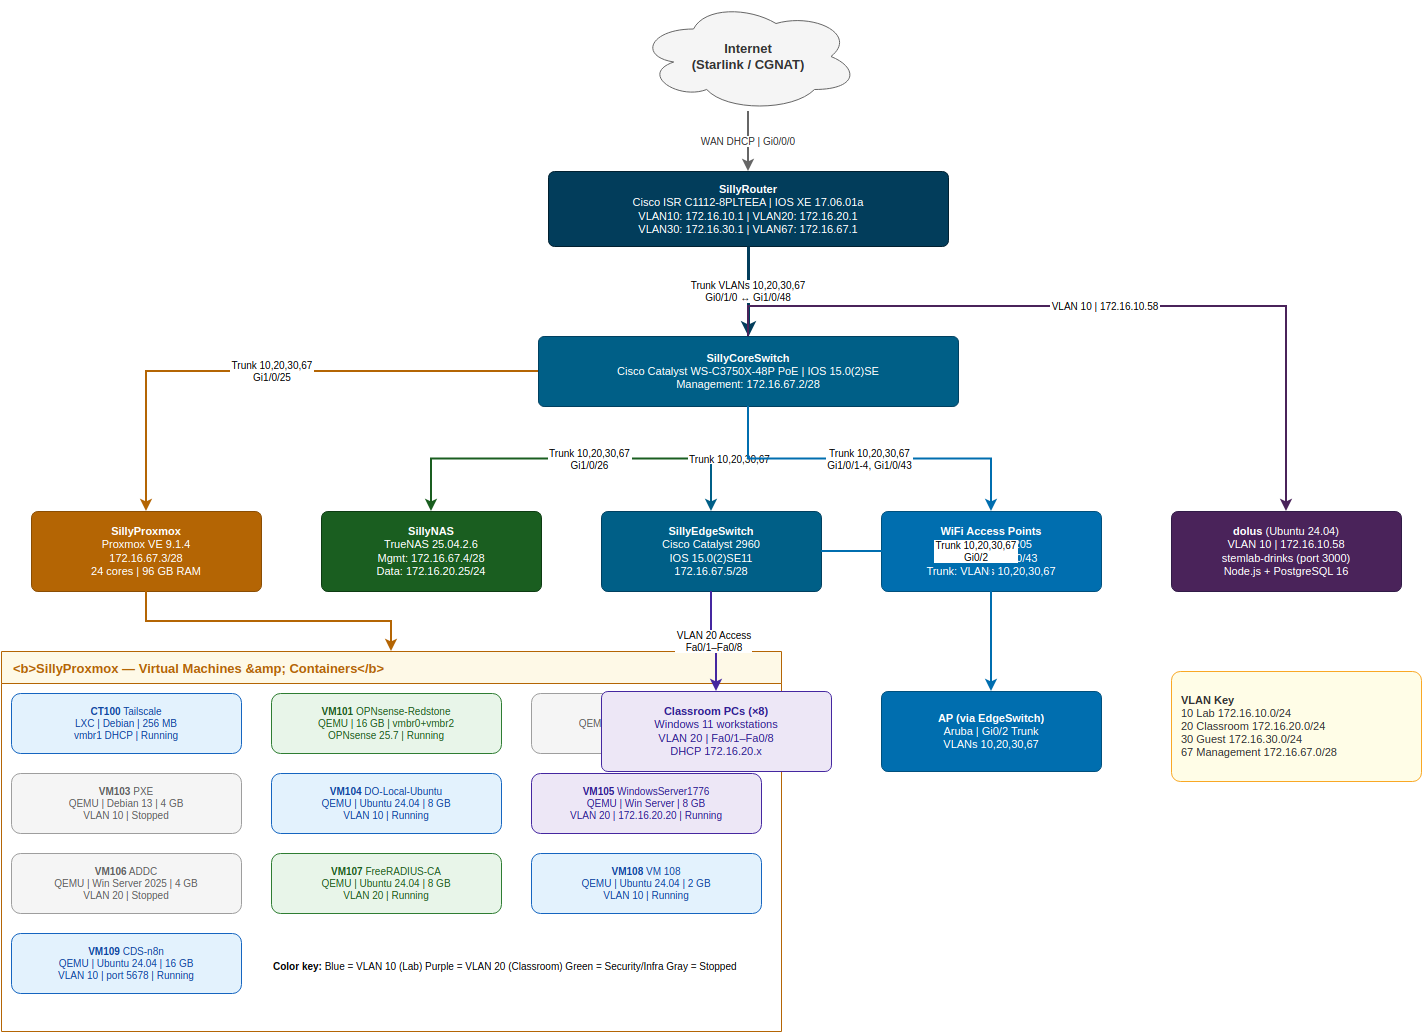
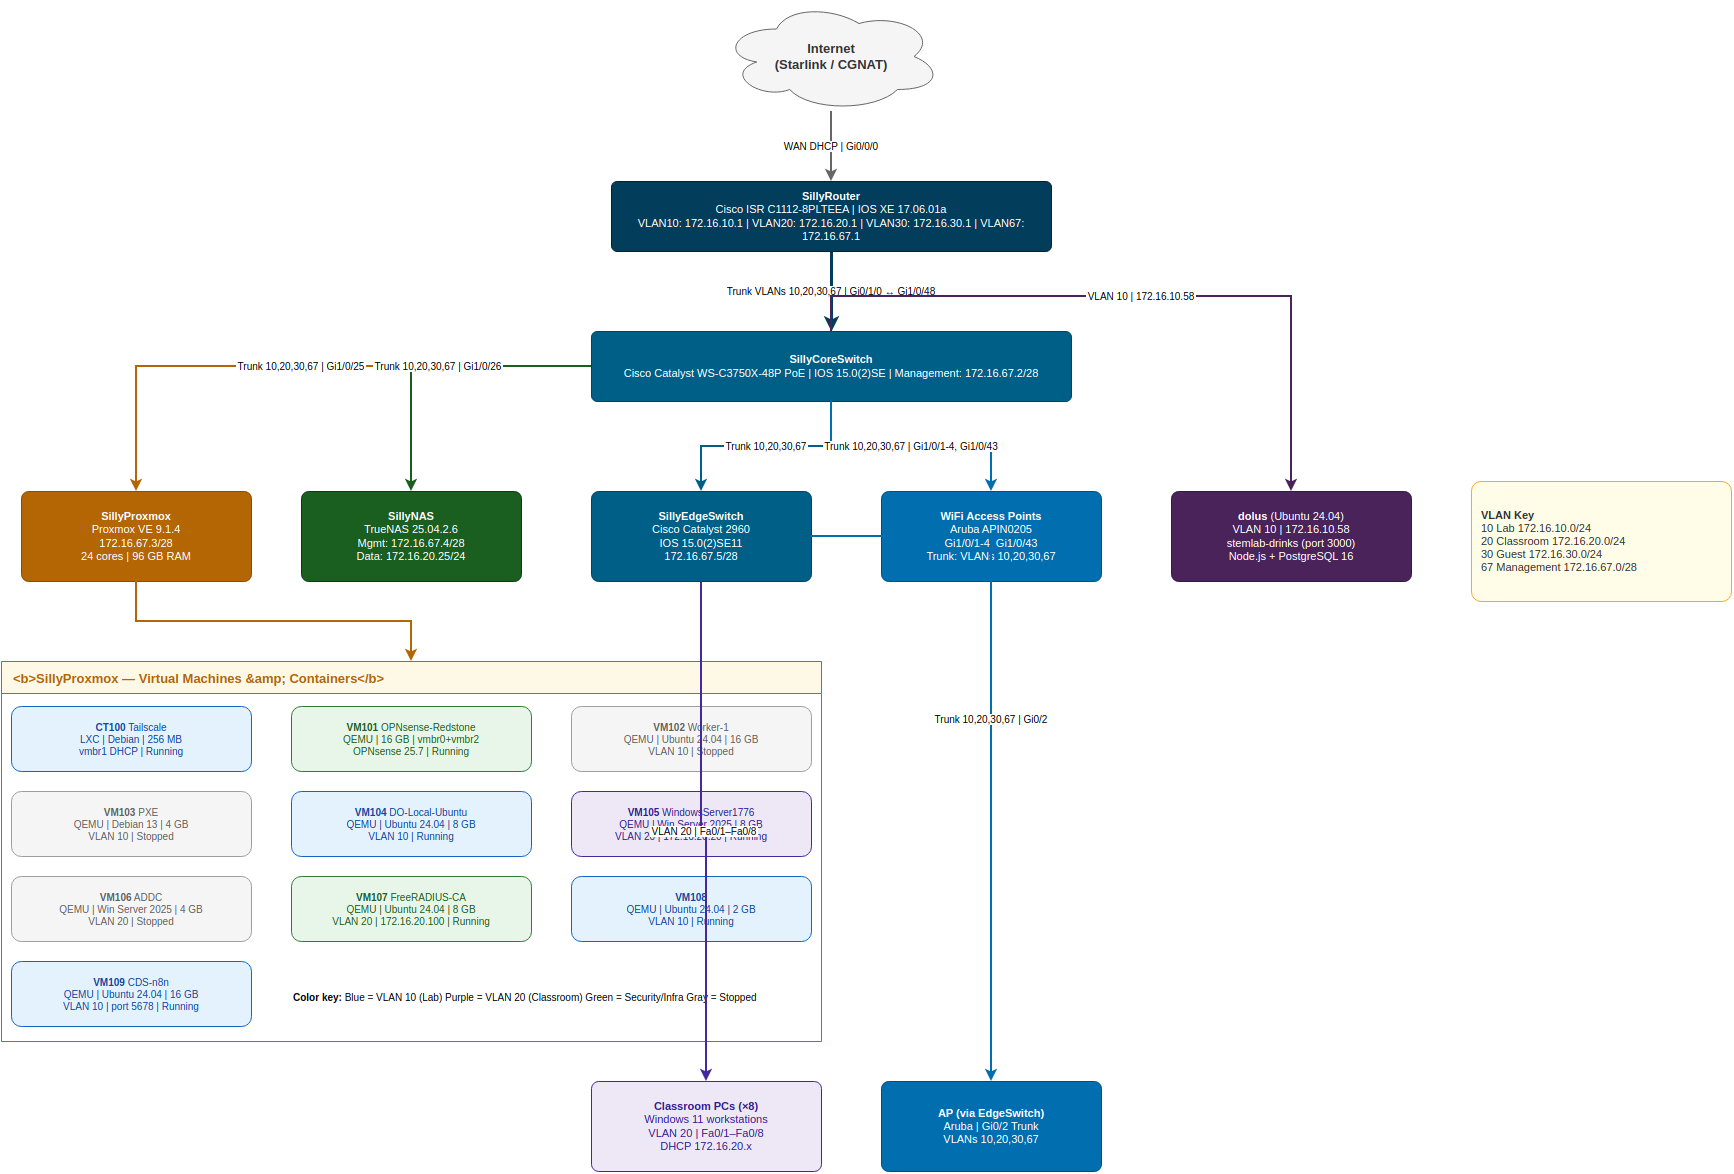
Fix topology diagrams: remove overlapping boxes, drop .drawio source files
- Rebuilt network-topology.drawio to fix Classroom PCs and AP boxes
  overlapping the VM swimlane (moved from y=720 to y=1110)
- Rebuilt services-diagram.drawio with better spacing and added
  Cloudflare Tunnel swimlane reflecting current architecture
- Re-exported both diagrams to PNG
- Removed .drawio source files; README updated accordingly

diff --git a/README.md b/README.md
@@ -53,7 +53,7 @@ For security hardening log and pending items see [`docs/security.md`](docs/secur
 ### Services & Applications
 ![Services Diagram](topology/services-diagram.png)
 
-> Source files (editable with [draw.io](https://app.diagrams.net)): [`network-topology.drawio`](topology/network-topology.drawio) · [`services-diagram.drawio`](topology/services-diagram.drawio)
+> Diagrams created with [draw.io](https://app.diagrams.net).
 
 ---
 
